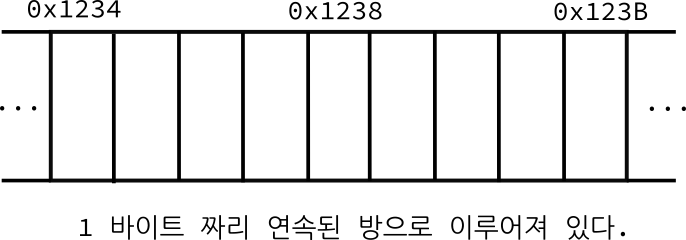
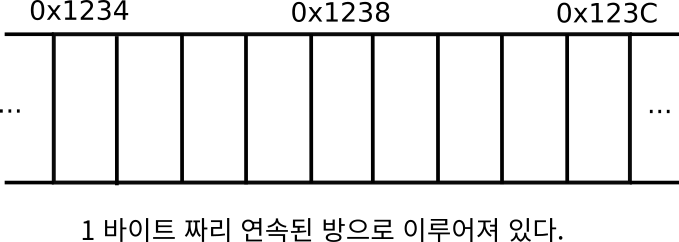
Fix typos.

Changed region(s): [[0.0, 0.0, 1.0, 0.7875], [0.1237, 0.875, 0.9278, 1.0], [0.0309, 0.0, 0.1856, 0.0875]]

diff --git a/python/md/dump_32.md b/python/md/dump_32.md
@@ -75,7 +75,9 @@ scanf("%c", &c);
 scanf("%d", &num);
 ```
 
-로 하였기 때문이죠. 즉 오직 숫자 데이터만 `stdin` 에서 얻어온다는 말입니다. 그렇다면 `scanf` 함수는 언제까지 `stdin` 으로 부터 데이터를 얻어올까요? 바로 `' ', '\n', '\t'` 를 만날 때 까지 입니다. 여기서 `' '` 는 띄어쓰기 한 칸을 의미합니다. 또한 `\t` 는 여러분들이 아직 본적도 없고 제가 이야기 한 적은 없지만 `TAB` 문자로 여러분이 키보드에 `TAB` 키를 누르게 되면 이 문자를 쓰는 것입니다. 또한 `\n` 은 이야개 했던데로, 엔터 이죠. 다시 말해 `scanf` 함수는 `stdin` 에서 위 세 개의 문자들을 만난다면 '아. 여기서 입력은 끝이구나' 하고 입력을 종료해 버립니다.
+로 하였기 때문이죠. 즉 오직 숫자 데이터만 `stdin` 에서 얻어온다는 말입니다. 그렇다면 `scanf` 함수는 언제까지 `stdin` 으로 부터 데이터를 얻어올까요? 바로 `' ', '\n', '\t'` 를 만날 때 까지 입니다. 여기서 `' '` 는 띄어쓰기 한 칸 (키보드의 Space) 을 의미합니다. 또한 `\t` 는 탭 문자로 여러분이 키보드에 `Tab` 키를 누를 때 나오는 문자 입니다.
+
+또한 `\n` 은 이전에 이야기 했던대로 개행문자 (키보드의 Enter) 입니다. 다시 말해 `scanf` 함수는 `stdin` 에서 위 세 개의 문자들을 만난다면 **아. 여기서 입력은 끝이구나** 하고 입력을 종료해 버립니다.
 
 참고적으로 `%d` 계열의 것들, 즉 수를 입력받는 형식은 수가 아닌 데이터가 와도 입력을 종료해 버립니다. 즉, `a` 를 입력했다면 `num` 에는 아무런 값이 들어가지 않아 치명적인 결과를 야기할 수 있습니다. 뿐만 아니라 수 데이터를 입력받는 형식의 경우 처음 부터 공백문자가 나타나면 수가 나타날 때 까지 입력을 계속 받게 됩니다. (다시 말해, 수를 입력 받는데 엔터를 아무리 쳐도 숫자를 치기 전까지 넘어가지 않는다) 암튼 `scanf` 함수는 공백 문자(`' ', '\n', '\t'`) 를 만나기 전까지 `stdin` 에서 데이터를 가져간 후 버퍼에서 삭제해 버립니다. 다시말해, 위 `scanf` 함수가 `num` 에 1 을 저장한 후 버퍼의 모습은 아래와 같습니다.
 

diff --git a/python/md/dump_65.md b/python/md/dump_65.md
@@ -60,13 +60,14 @@ C 형식 문자열로 다음의 것들을 포함하고 있 C 형식 문자열로
 #### fscanf 함수의 타입 지정자들
 
 |타입|대응되는 입력 방식|대응되는 인자의 형태|
-|`c`|단일 문자: 하나의 문자를 읽어들인다. 만일 폭에 1 이 아닌 값으로 지정되어 있다면 (기본값은 1) 함수는 폭 만큼의 문자를 읽어들인 후 이에 대응하는 인자가 가리키는 메모리 공간에 저장한다. 이 때 마지막에는 널 문자를 붙이지 않는다.|`char *`|
-|`d`|십진법으로 표현된 정수: 말그대로 십진법으로 쓰인 정수로, `+` 나 `-` 기호로 시작할 수도 있다.`int *`|
-|`e, E, f, g, G`|부동 소수점: 소수점을 포함하고 있는 소수(decimal number) 로 `+` 나 `-` 기호로 시작할 수도 있으며, `e` 나 `E` 문자(10 의 지수를 나타내기 위해)를 포함할 수 도 있다. -732.103, 12e-4, +123.10 은 모두 올바른 입력이다.| `float *`|
+|----|----|----|
+|`c`|단일 문자: 하나의 문자를 읽어들인다. 만일 폭에 1 이 아닌 값으로 지정되어 있다면 (기본값은 1) 함수는 폭 만큼의 문자를 읽어들인 후 이에 대응하는 인자가 가리키는 메모리 공간에 저장한다. 이 때 마지막에는 널 문자를 붙이지 않는다. |`char*`|
+|`d`|십진법으로 표현된 정수: 말그대로 십진법으로 쓰인 정수로, `+` 나 `-` 기호로 시작할 수도 있다.|`int*`|
+|`e, E, f, g, G`|부동 소수점: 소수점을 포함하고 있는 소수(decimal number) 로 `+` 나 `-` 기호로 시작할 수도 있으며, `e` 나 `E` 문자(10 의 지수를 나타내기 위해)를 포함할 수 도 있다. -732.103, 12e-4, +123.10 은 모두 올바른 입력이다.|`float*`|
 |`o`|8진법으로 표현된 정수|`int *`|
-|`s`|문자열: 공백문자를 찾을 때 까지 문자들을 읽어들인다.|`char *`|
-|`u`|부호가 없는 십진법으로 표현된 정수|`unsigned int *`|
-|`x, X`|16진법으로 표현된 정수|`int *`|
+|`s`|문자열: 공백문자를 찾을 때 까지 문자들을 읽어들인다.|`char*`|
+|`u`|부호가 없는 십진법으로 표현된 정수|`unsigned int*`|
+|`x, X`|16진법으로 표현된 정수|`int*`|
 
 #### 부수적 인자
 

diff --git a/md/292.md b/md/292.md
@@ -539,7 +539,7 @@ std::cout << str.substr(i, char_size) << std::endl;
 
 UTF-16 인코딩은 최소 단위가 2 바이트 입니다. 따라서 UTF-16 으로 인코딩 된 문자열을 저장하는 클래스인 `u16string` 도 원소의 타입이 2 바이트 (`char16_t`) 입니다.
 
-UTF-16 은 유니코드에서 0 부터 `D7FF` 번 까지, 그리고 `E000` 부터 `FFFF` 까지의 문자들을 2 바이트로 인코딩 합니다. 그리고 `FFFF` 보다 큰 문자들은 4 바이트로 인코딩 되지요. 참고로 `D800` 번 부터 `DFFF` 사이의 문자들은 어디에 인코딩 되냐고 물을 수 있는데, 이들은 유니코드 상 존재하지 않는 문자들 입니다.\sidenote{사실 UTF-16 인코딩을 위해서 일부러 해당 구간에는 대응되는 문자들지 않았습니다.}
+UTF-16 은 유니코드에서 0 부터 `D7FF` 번 까지, 그리고 `E000` 부터 `FFFF` 까지의 문자들을 2 바이트로 인코딩 합니다. 그리고 `FFFF` 보다 큰 문자들은 4 바이트로 인코딩 되지요. 참고로 `D800` 번 부터 `DFFF` 사이의 문자들은 어디에 인코딩 되냐고 물을 수 있는데, 이들은 유니코드 상 존재하지 않는 문자들 입니다.
 
 덕분에 UTF-16 인코딩 방식으로는 대부분의 문자들이 2 바이트로 인코딩 됩니다. 알파벳, 한글, 한자 전부다 말이지요. 물론 이모지\htmlonly{(🍑,🍒,🍓,🍔,🍕,🍖,🍗)}나 이집트 상형문자\htmlonly{(𓀀,𓀁,𓀂)}와 같이 유니코드 상 높은 번호로 매핑되어 있는 애들은 4 바이트로 인코딩 됩니다.
 

diff --git a/python/md/dump_44.md b/python/md/dump_44.md
@@ -24,7 +24,7 @@ int getchar ( void );
 
 `stdin` 에서 한 문자를 가져온다.
 
-표준 입력에서 다음 문자를 리턴한다.
+표준 입력에서 다음 문자를 리턴한다. 정확히 말하자면, `unsigned char` 로 받은 문자를 `int` 로 변환해서 리턴한다. 오류 발생시에 `EOF` 를 리턴한다. 
 이는 인자가 `stdin` 인 `getc` 함수와 동일하다.
 
 
@@ -43,14 +43,11 @@ int getchar ( void );
 
 ###  실행 예제
 
-
-
-
 ```cpp-formatted
 /* 한 문자를 읽는다.*/
 #include <stdio.h>
 int main() {
-  char ch = getchar();
+  int ch = getchar();
   printf("문자 : %c \n", ch);
 
   return 0;
@@ -58,7 +55,7 @@ int main() {
 ```
 
 
-실행 결과
+#### 실행 결과
 
 
 ![](http://img1.daumcdn.net/thumb/R1920x0/?fname=http%3A%2F%2Fcfile8.uf.tistory.com%2Fimage%2F1465C7154B685E0307EE2B)
@@ -81,8 +78,7 @@ int main() {
 }
 ```
 
-실행 결과
-
+#### 실행 결과
 
 ![](http://img1.daumcdn.net/thumb/R1920x0/?fname=http%3A%2F%2Fcfile8.uf.tistory.com%2Fimage%2F190939164B685E7E02CEC7)
 
@@ -103,7 +99,7 @@ int main() {
 */
 #include <stdio.h>
 int main() {
-  char c;
+  int c;
   puts("Enter text. Include a dot ('.') in a sentence to exit:");
   do {
     c = getchar();
@@ -114,7 +110,7 @@ int main() {
 }
 ```
 
-실행 결과
+#### 실행 결과
 
 
 ![](http://img1.daumcdn.net/thumb/R1920x0/?fname=http%3A%2F%2Fcfile27.uf.tistory.com%2Fimage%2F173C481F4B685F6E015E38)

diff --git a/md/311.md b/md/311.md
@@ -614,7 +614,7 @@ SRCS = $(notdir $(wildcard $(SRC_DIR)/*.cc))
 
 먼저 `SRC_DIR` 안에 있는 모든 파일들을 `SRCS` 로 읽어들이려 하고 있습니다. `wildcard` 는 함수로 해당 조건에 맞는 파일들을 뽑아내게 되는데, 예를 들어서 `foo.cc, bar.cc, main.cc` 가 있을 경우 `$(wildcard $(SRC_DIR)/*.cc)` 의 실행 결과는 `./src/foo.cc ./src/bar.cc ./src/main.cc` 가 될 것입니다.
 
-여기서 우리는 `foo.cc bar.cc main.cc` 로 깔끔하게 경로를 제외한 파일 이름만 뽑아내기 위해 `nodir` 함수를 사용합니다. `nodir` 은 앞에 오는 경로를 날려버리고 파일 이름만 깔끔하게 추출해줍니다.
+여기서 우리는 `foo.cc bar.cc main.cc` 로 깔끔하게 경로를 제외한 파일 이름만 뽑아내기 위해 `notdir` 함수를 사용합니다. `notdir` 은 앞에 오는 경로를 날려버리고 파일 이름만 깔끔하게 추출해줍니다.
 
 ```info-verb
 OBJS = $(SRCS:.cc=.o)
@@ -724,6 +724,6 @@ $ make -j8
 $ make -j$(nproc)
 ```
 
-으로 하면 `$(proc)` 이 알아서 내 컴퓨터의 현재 코어 개수로 치환됩니다.
+으로 하면 `$(nproc)` 이 알아서 내 컴퓨터의 현재 코어 개수로 치환됩니다.
 
 ##@ chewing-cpp-end

diff --git a/python/md/dump_219.md b/python/md/dump_219.md
@@ -762,7 +762,7 @@ else {
   data[prev / 32] &= all_ones_except_prev;
 }
 ```
-그렇다면 오른쪽 비트가 0 일 때 왼쪽 비트를 0 으로 만드는 작업은 어떻게 할까요? 앞서 `AND` 연산의 경우 1 을 `AND` 하게 되면 원래 비트가 보존되고, 0 을 `AND` 하면 0 이 된다고 하였습니다. 따라서, 우리가 해야할 일은 원하는 자리의 비트만 0 이고 나머지는 1 인 것을 `AND` 해주면 됩니다. 그 과정을 수행하는 부분이 아래와 같습니다.
+그렇다면 왼쪽 비트가 0 일 때 오른쪽 비트를 0 으로 만드는 작업은 어떻게 할까요? (왼쪽이 더 나중 원소이므로 거꾸로 생각해야 한다). 앞서 `AND` 연산의 경우 1 을 `AND` 하게 되면 원래 비트가 보존되고, 0 을 `AND` 하면 0 이 된다고 하였습니다. 따라서, 우리가 해야할 일은 원하는 자리의 비트만 0 이고 나머지는 1 인 것을 `AND` 해주면 됩니다. 그 과정을 수행하는 부분이 아래와 같습니다.
 
 ```cpp-formatted
 unsigned int all_ones_except_prev = 0xFFFFFFFF;

diff --git a/python/md/dump_172.md b/python/md/dump_172.md
@@ -92,7 +92,7 @@ animal.sleep();  // 내가 sleep 을 한다!
 
 결과적으로 객체는 다음과 같이 정의됩니다.
 
-객체란, 변수들과 참고 자료들로 이루어진 소프트웨어 덩어리 이다.
+> 객체란, 변수들과 참고 자료들로 이루어진 소프트웨어 덩어리 이다.
 
 이 때 객체가 현실 세계에서의 존재하는 것들을 나타내기 위해서는 **추상화(abstraction)** 라는 과정이 필요합니다. 컴퓨터 상에서 현실 세계를 100% 나타낼 수 없는 것이기 때문에, 적절하게 컴퓨터에서 처리할 수 있도록 바꾸는 것인데, 예를 들어서 핸드폰의 경우 '전화를 한다', '문자를 보낸다' 와 같은 것들은 '핸드폰이 하는 것' 이므로 함수로 추상화시킬 수 있고,핸드폰의 상태를 나타내는 것들, 예를 들어서 자기 자신의 전화 번호나 배터리 잔량 같은 것은변수로 추상화시킬 수 있습니다.
 

diff --git a/md/282.md b/md/282.md
@@ -48,7 +48,7 @@ int main() {
             << "42 를 16 진법으로 : " << std::hex << 42 << '\n';
   int n;
   std::istringstream("2A") >> std::hex >> n;
-  std::cout << std::dec << "'2A' 를 16 진법으로 읽어들인 값은 " << n << '\n';
+  std::cout << std::dec << "'2A' 를 10 진법으로 읽어들인 값은 " << n << '\n';
   std::cout << std::hex << "42 는 16 진법으로 " << 42
             << " 이고 21 은 16 진법으로 " << 21 << '\n';
 }
@@ -58,7 +58,7 @@ int main() {
 42 를 8 진법으로  : 52
 42 를 10 진법으로 : 42
 42 를 16 진법으로 : 2a
-'2A' 를 16 진법으로 읽어들인 값은 42
+'2A' 를 10 진법으로 읽어들인 값은 42
 42 는 16 진법으로 2a 이고 21 은 16 진법으로 15
 ```
 

diff --git a/python/md/dump_197.md b/python/md/dump_197.md
@@ -1090,7 +1090,7 @@ a.show_x();
 a.access_x() = 3;
 ```
 
-위 문장이 잘 작동한다는 점인데, 앞에서도 말했지만 '레퍼런스를 리턴하는 함수는 그 함수 부분을 리턴하는 원래 변수로 치환해도 됀다' 라는 말이 명확히 들어맞는 다는 점입니다. 즉, 위 문장은 결국
+위 문장이 잘 작동한다는 점인데, 앞에서도 말했지만 '레퍼런스를 리턴하는 함수는 그 함수 부분을 리턴하는 원래 변수로 치환해도 된다' 라는 말이 명확히 들어맞는 다는 점입니다. 즉, 위 문장은 결국
 
 ```cpp-formatted
 a.x = 3;

diff --git a/md/333.md b/md/333.md
@@ -213,16 +213,6 @@ fn create_func_container<T: From<Obj> + 'static, V: Into<Obj> + 'static>(
     func: fn(T) -> V,
 ) -> FuncContainer {
     FuncContainer::F1(Box::new(move |v: Obj| -> Obj { func(v.into()).into() }))
-}enum FuncContainer {
-    F1(Box<dyn Fn(Obj) -> Obj>),
-}
-
-struct Obj {}
-
-fn create_func_container<T: From<Obj> + 'static, V: Into<Obj> + 'static>(
-    func: fn(T) -> V,
-) -> FuncContainer {
-    FuncContainer::F1(Box::new(move |v: Obj| -> Obj { func(v.into()).into() }))
 }
 ```
 

diff --git a/python/md/dump_217.md b/python/md/dump_217.md
@@ -580,8 +580,8 @@ void Table::reg_cell(Cell* c, int row, int col) {
 ```cpp-formatted
 int Table::to_numeric(const string& s) {
   // Cell 이름으로 받는다.
-  int row = s[0] - 'A';
-  int col = atoi(s.c_str() + 1) - 1;
+  int col = s[0] - 'A';
+  int row = atoi(s.c_str() + 1) - 1;
 
   if (row < max_row_size && col < max_col_size) {
     if (data_table[row][col]) {
